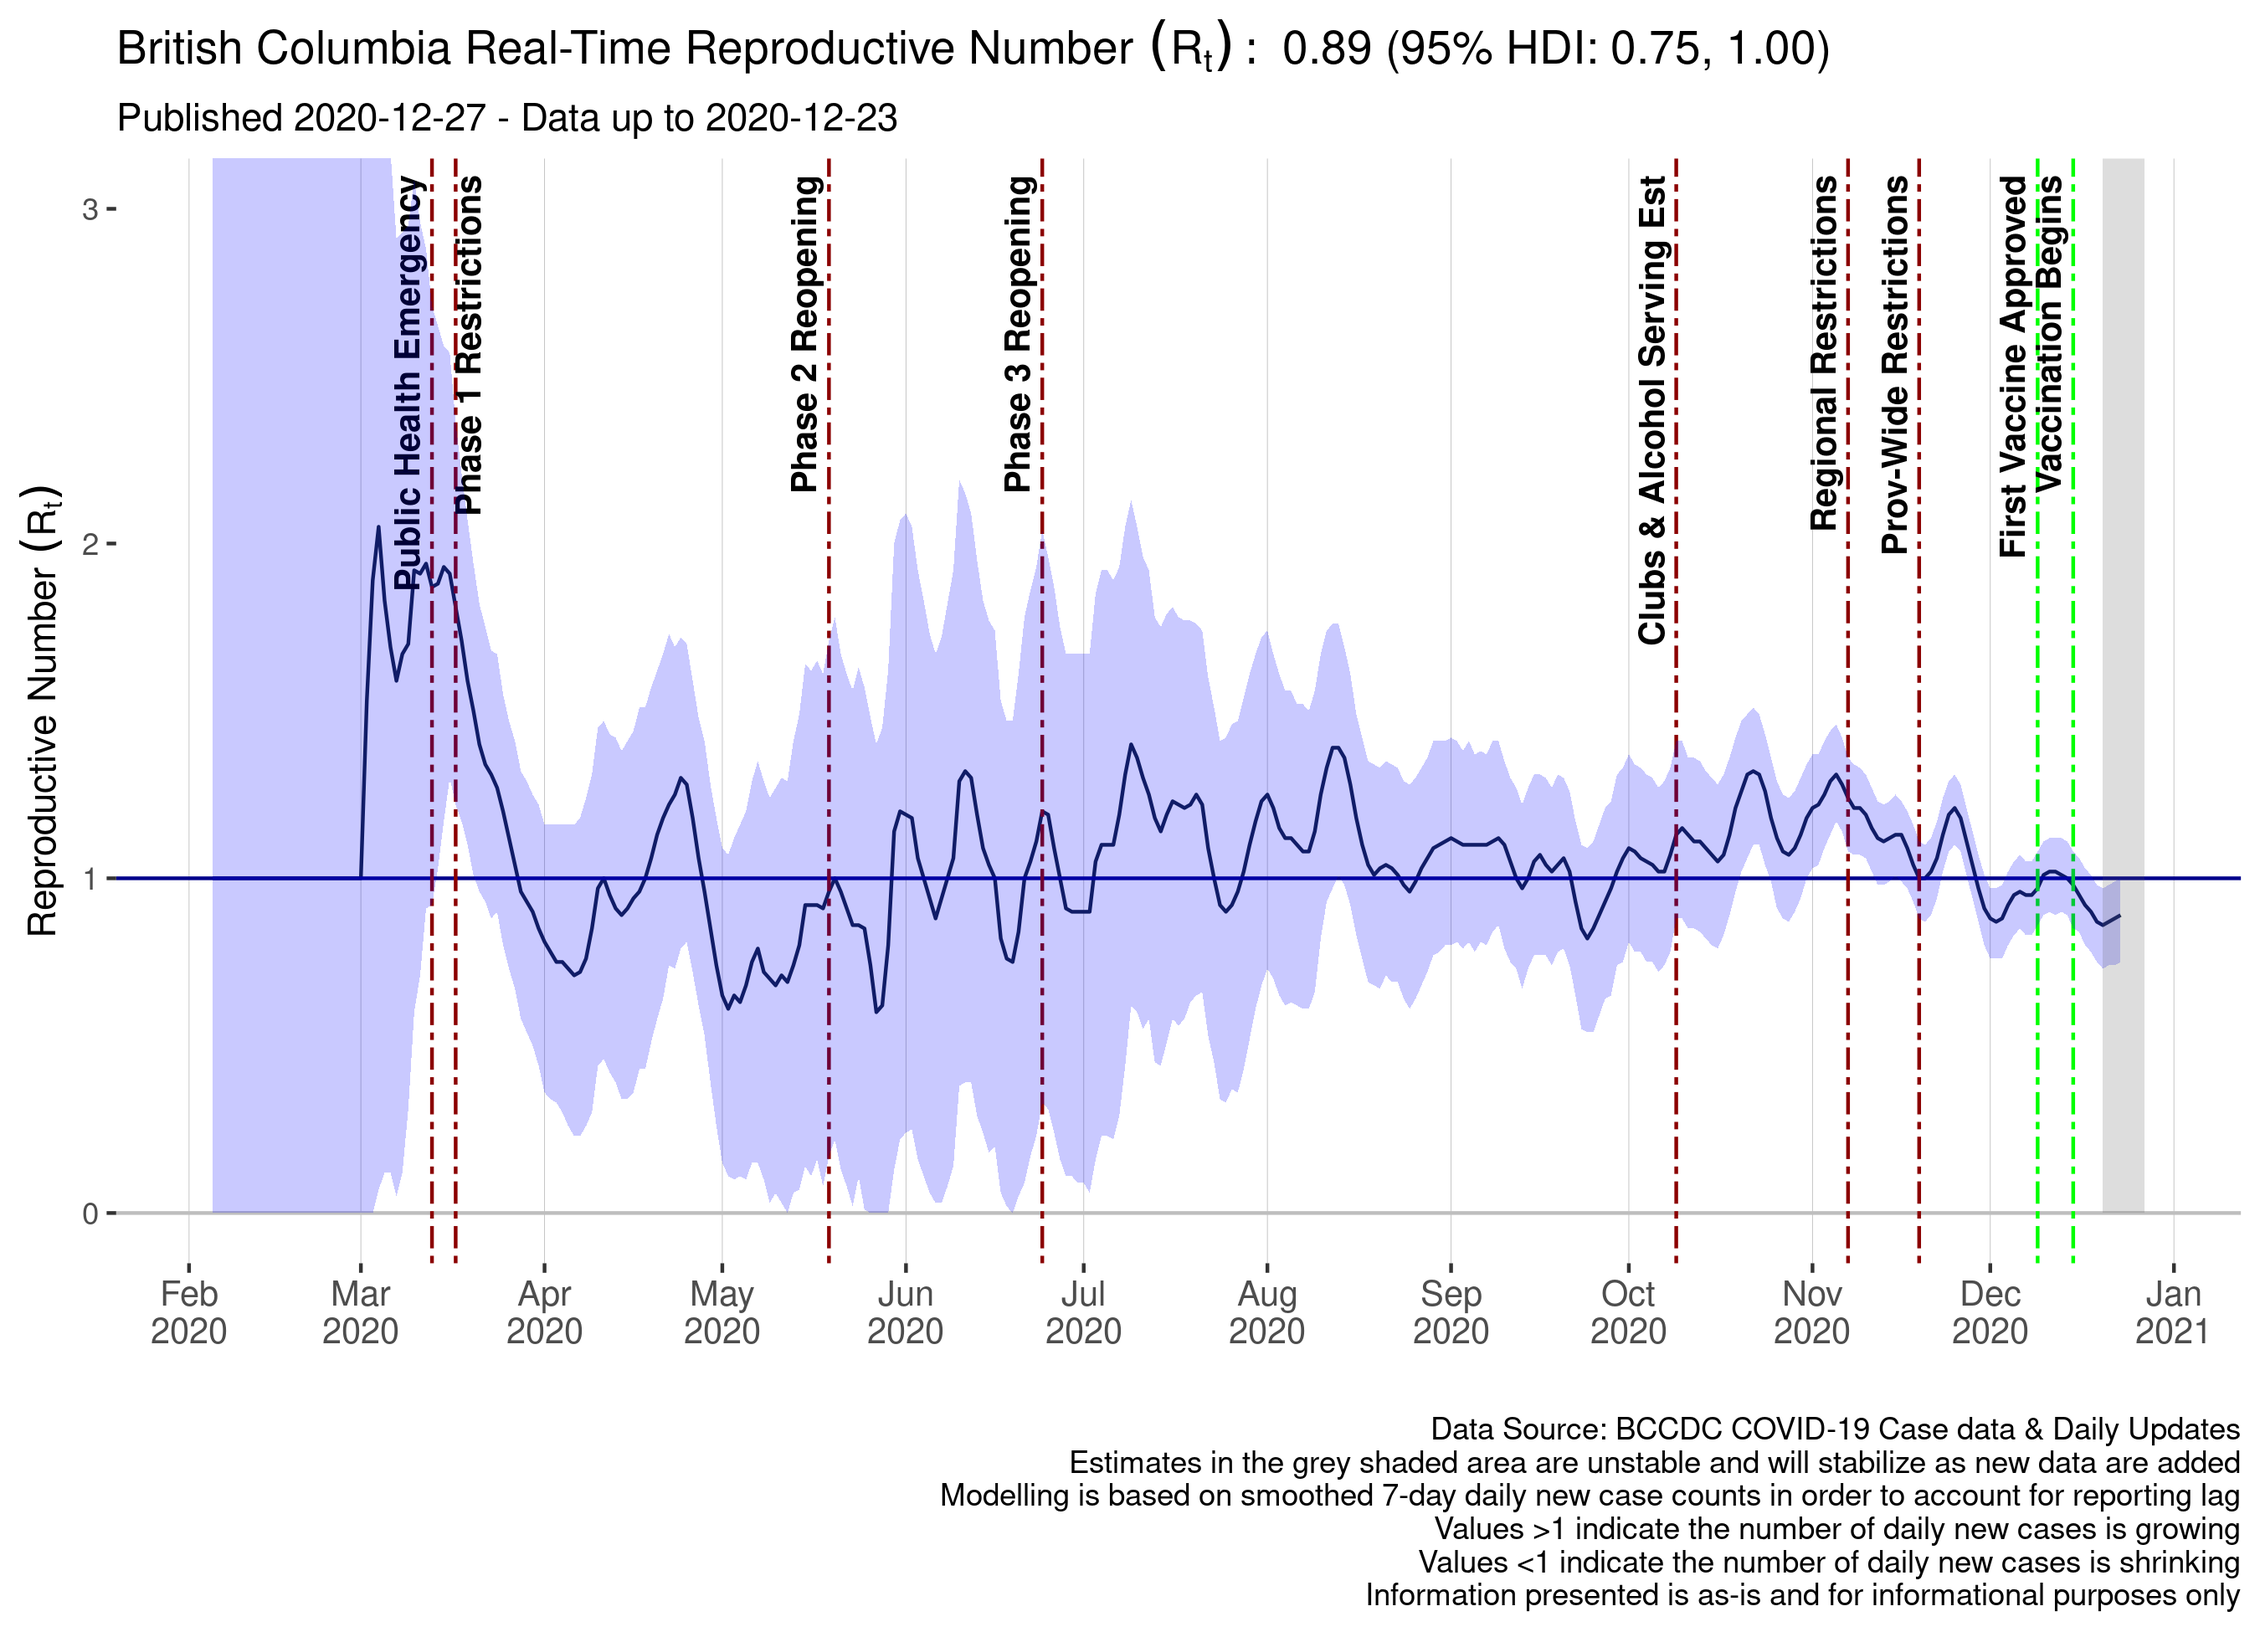
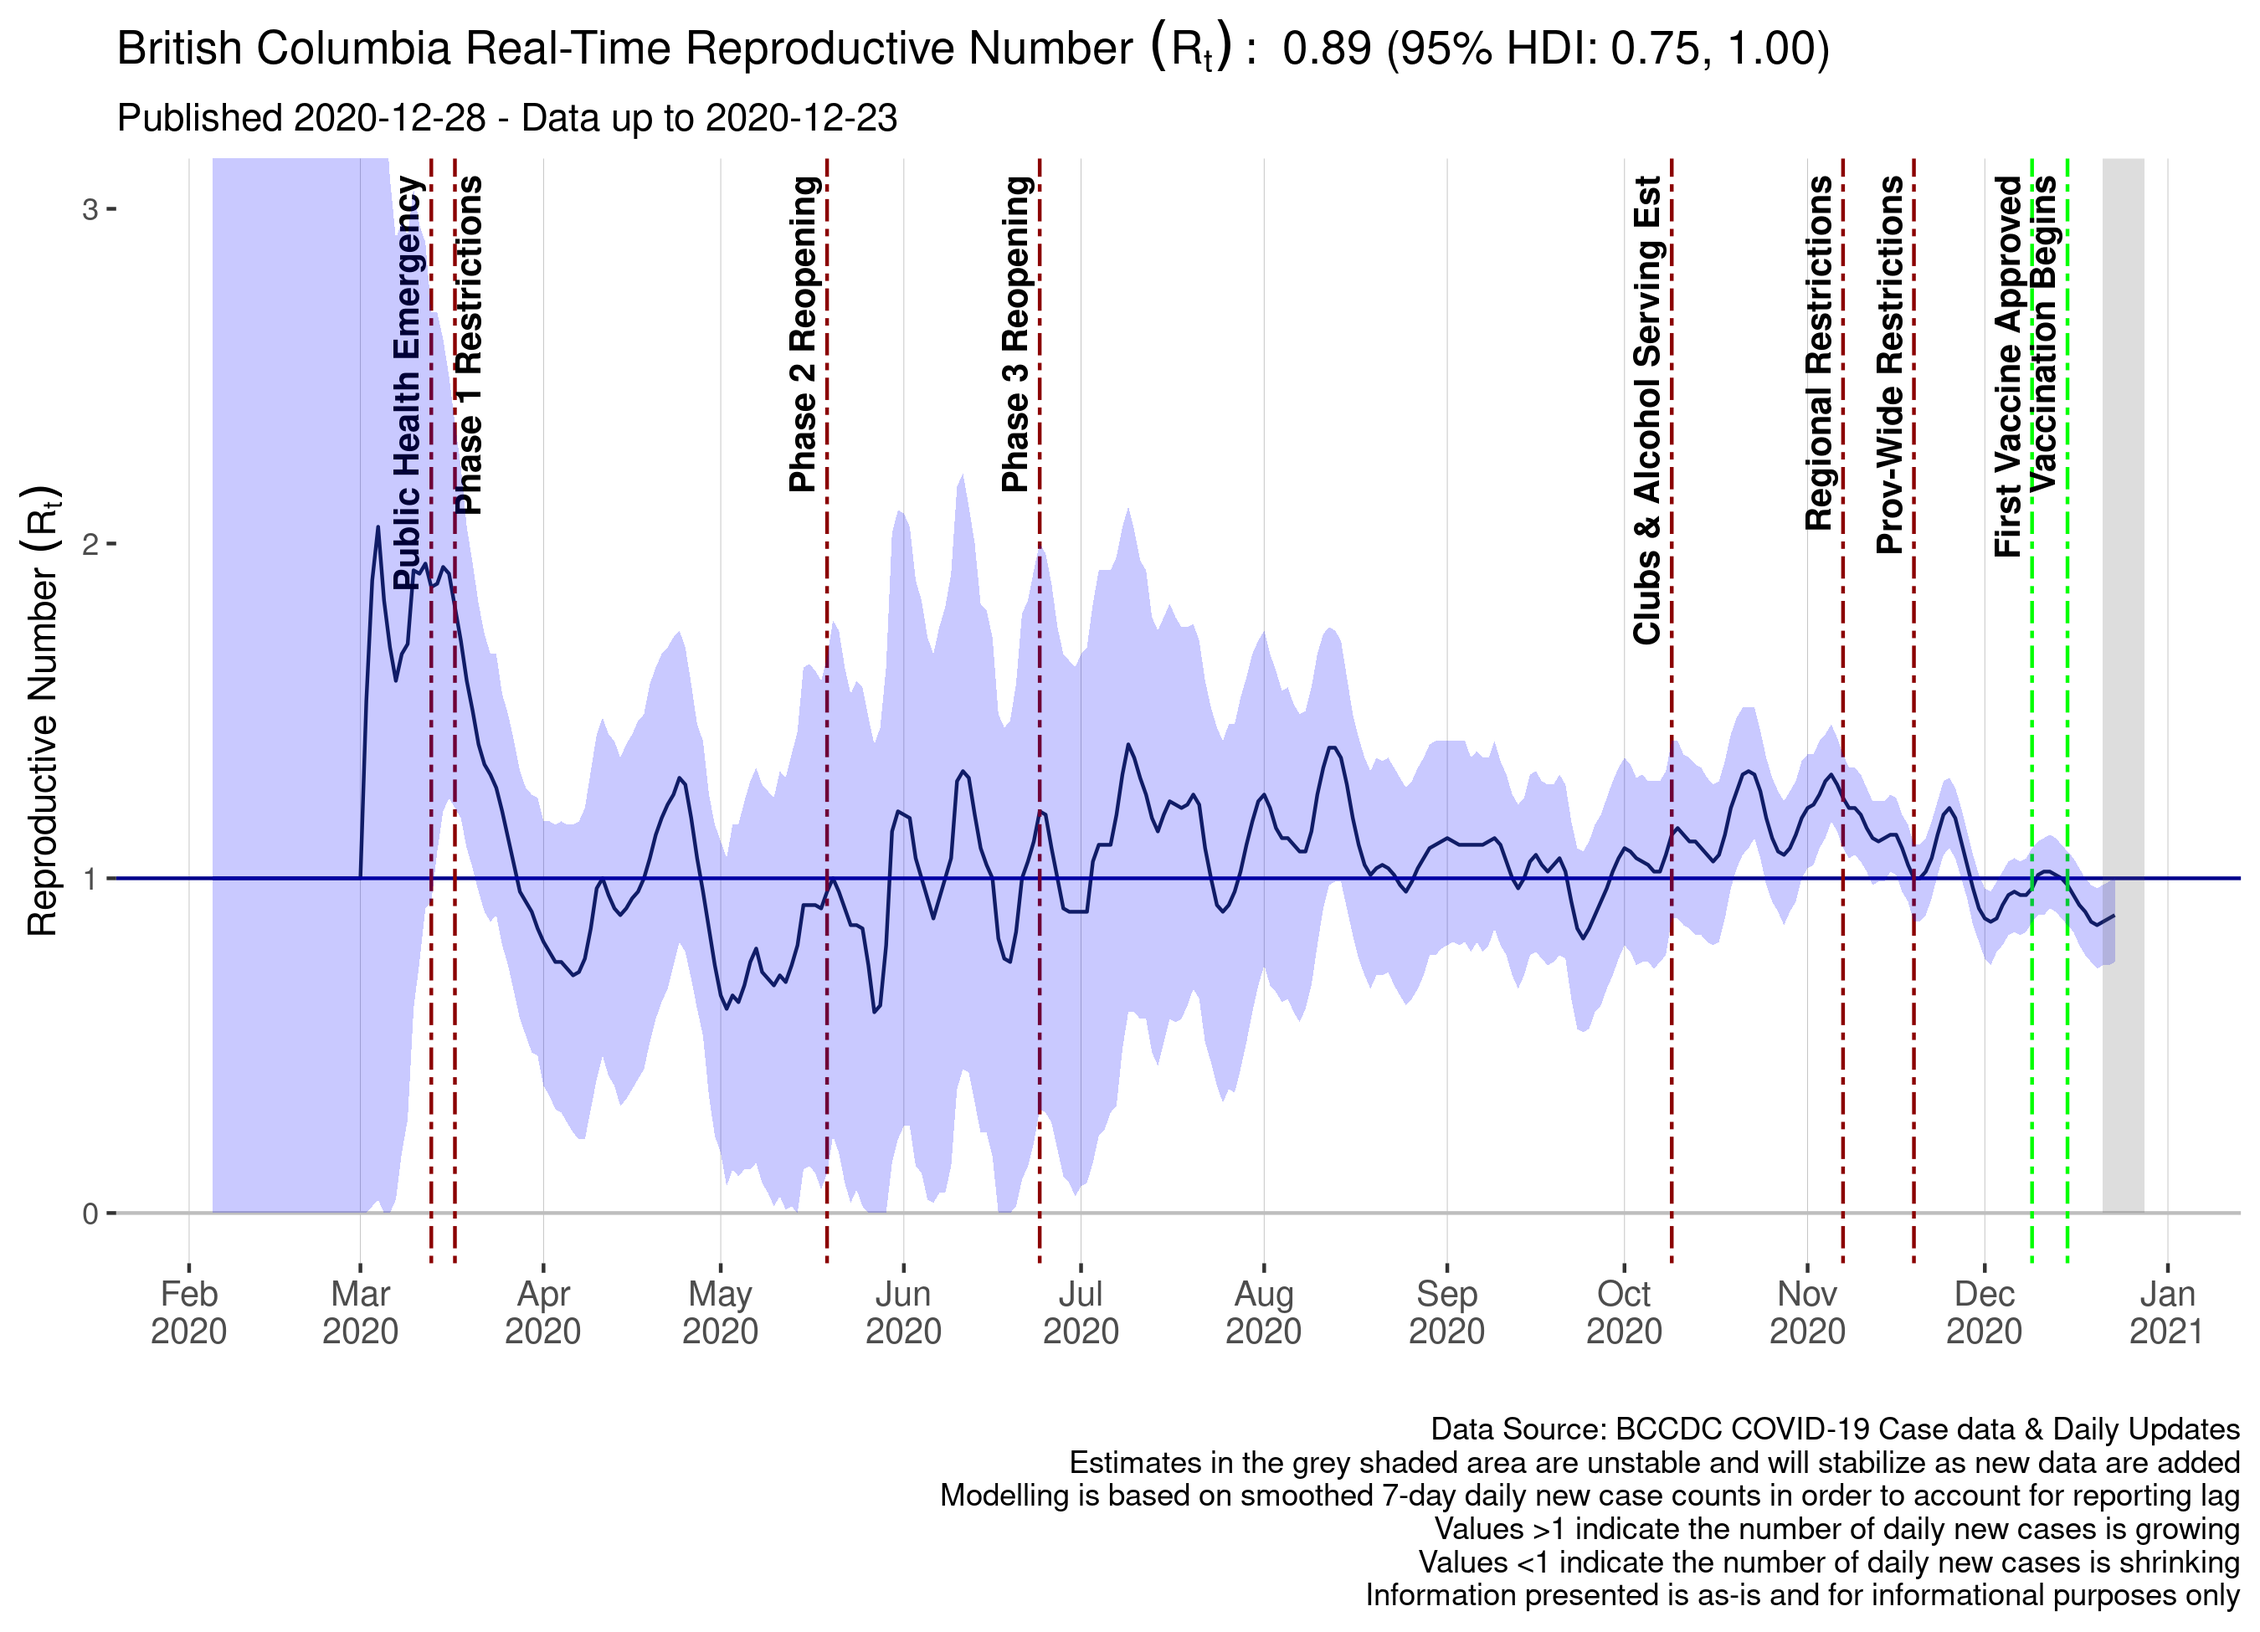
Deploying to gh-pages from  @ 4a5c96fd5e9e680699fe07b7d18f3016c1c38bd9 🚀

diff --git a/index.html b/index.html
@@ -27,7 +27,7 @@
 <body>
   <img src="rt.png" alt="BC rt Value">
   <p>
-    <small>Generated: Sat Dec 26 18:18:27 PST 2020</small>
+    <small>Generated: Sun Dec 27 18:19:02 PST 2020</small>
   </p>
 </body>
 </html>
